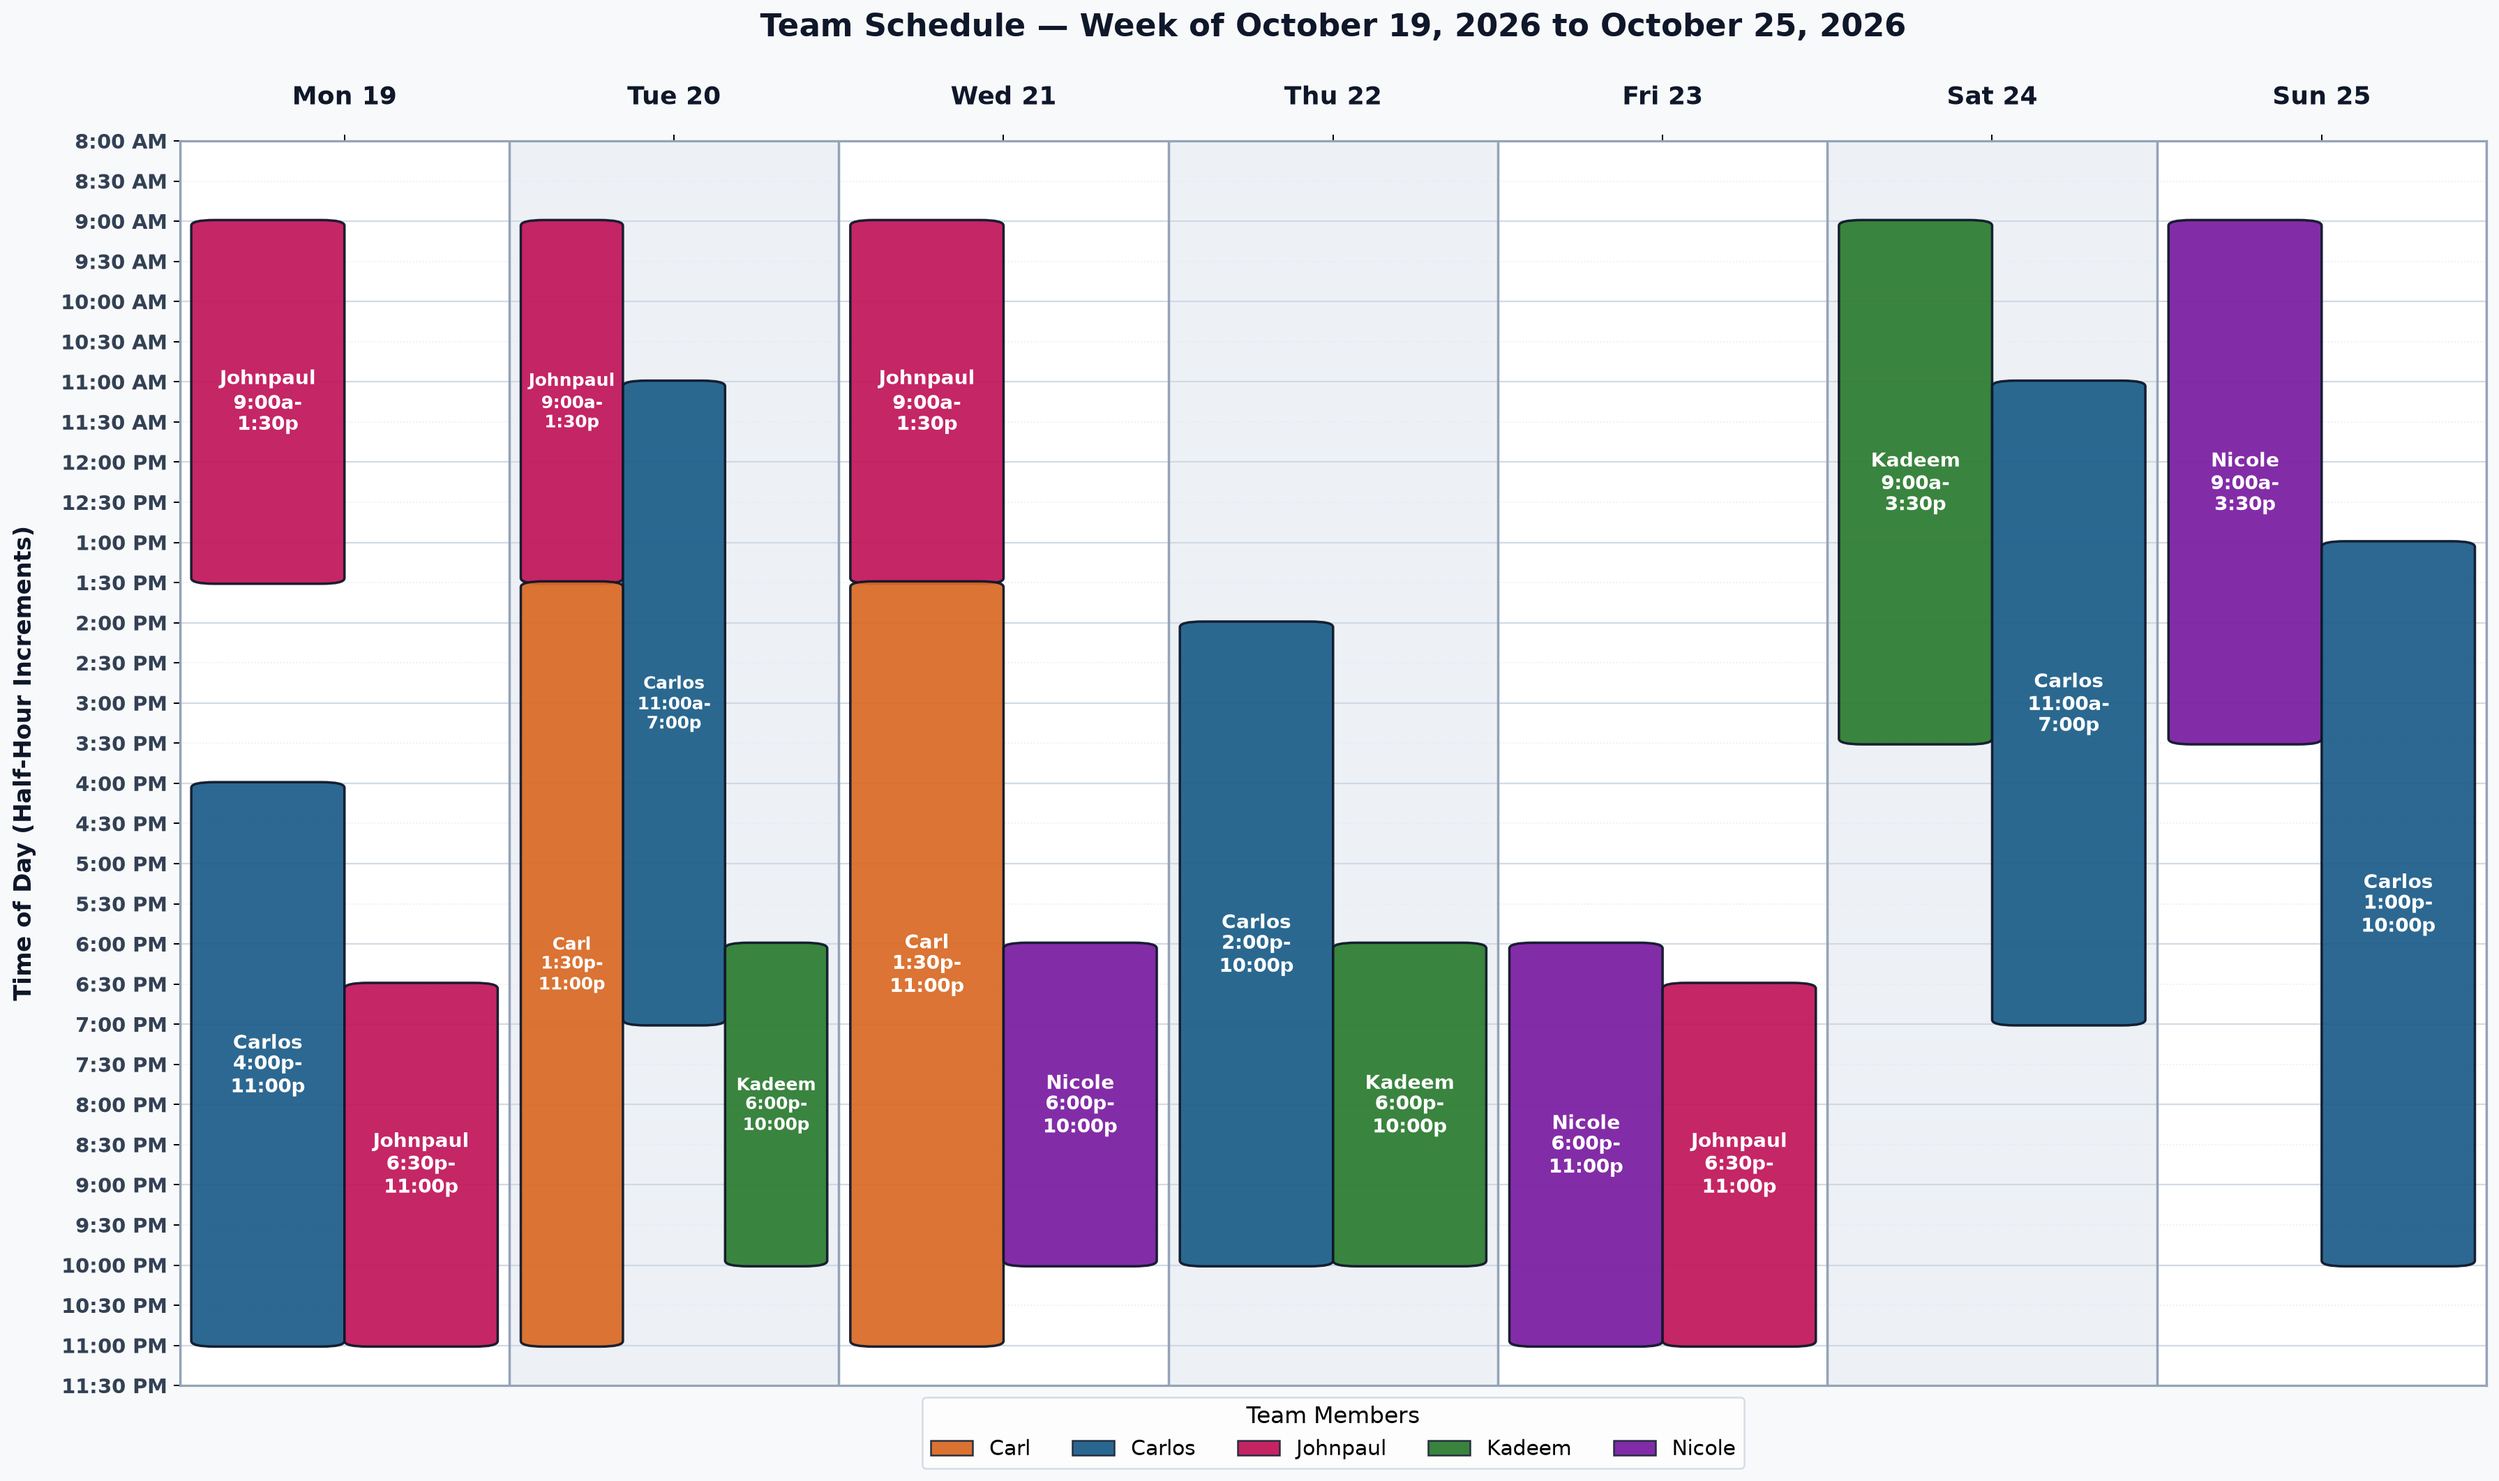
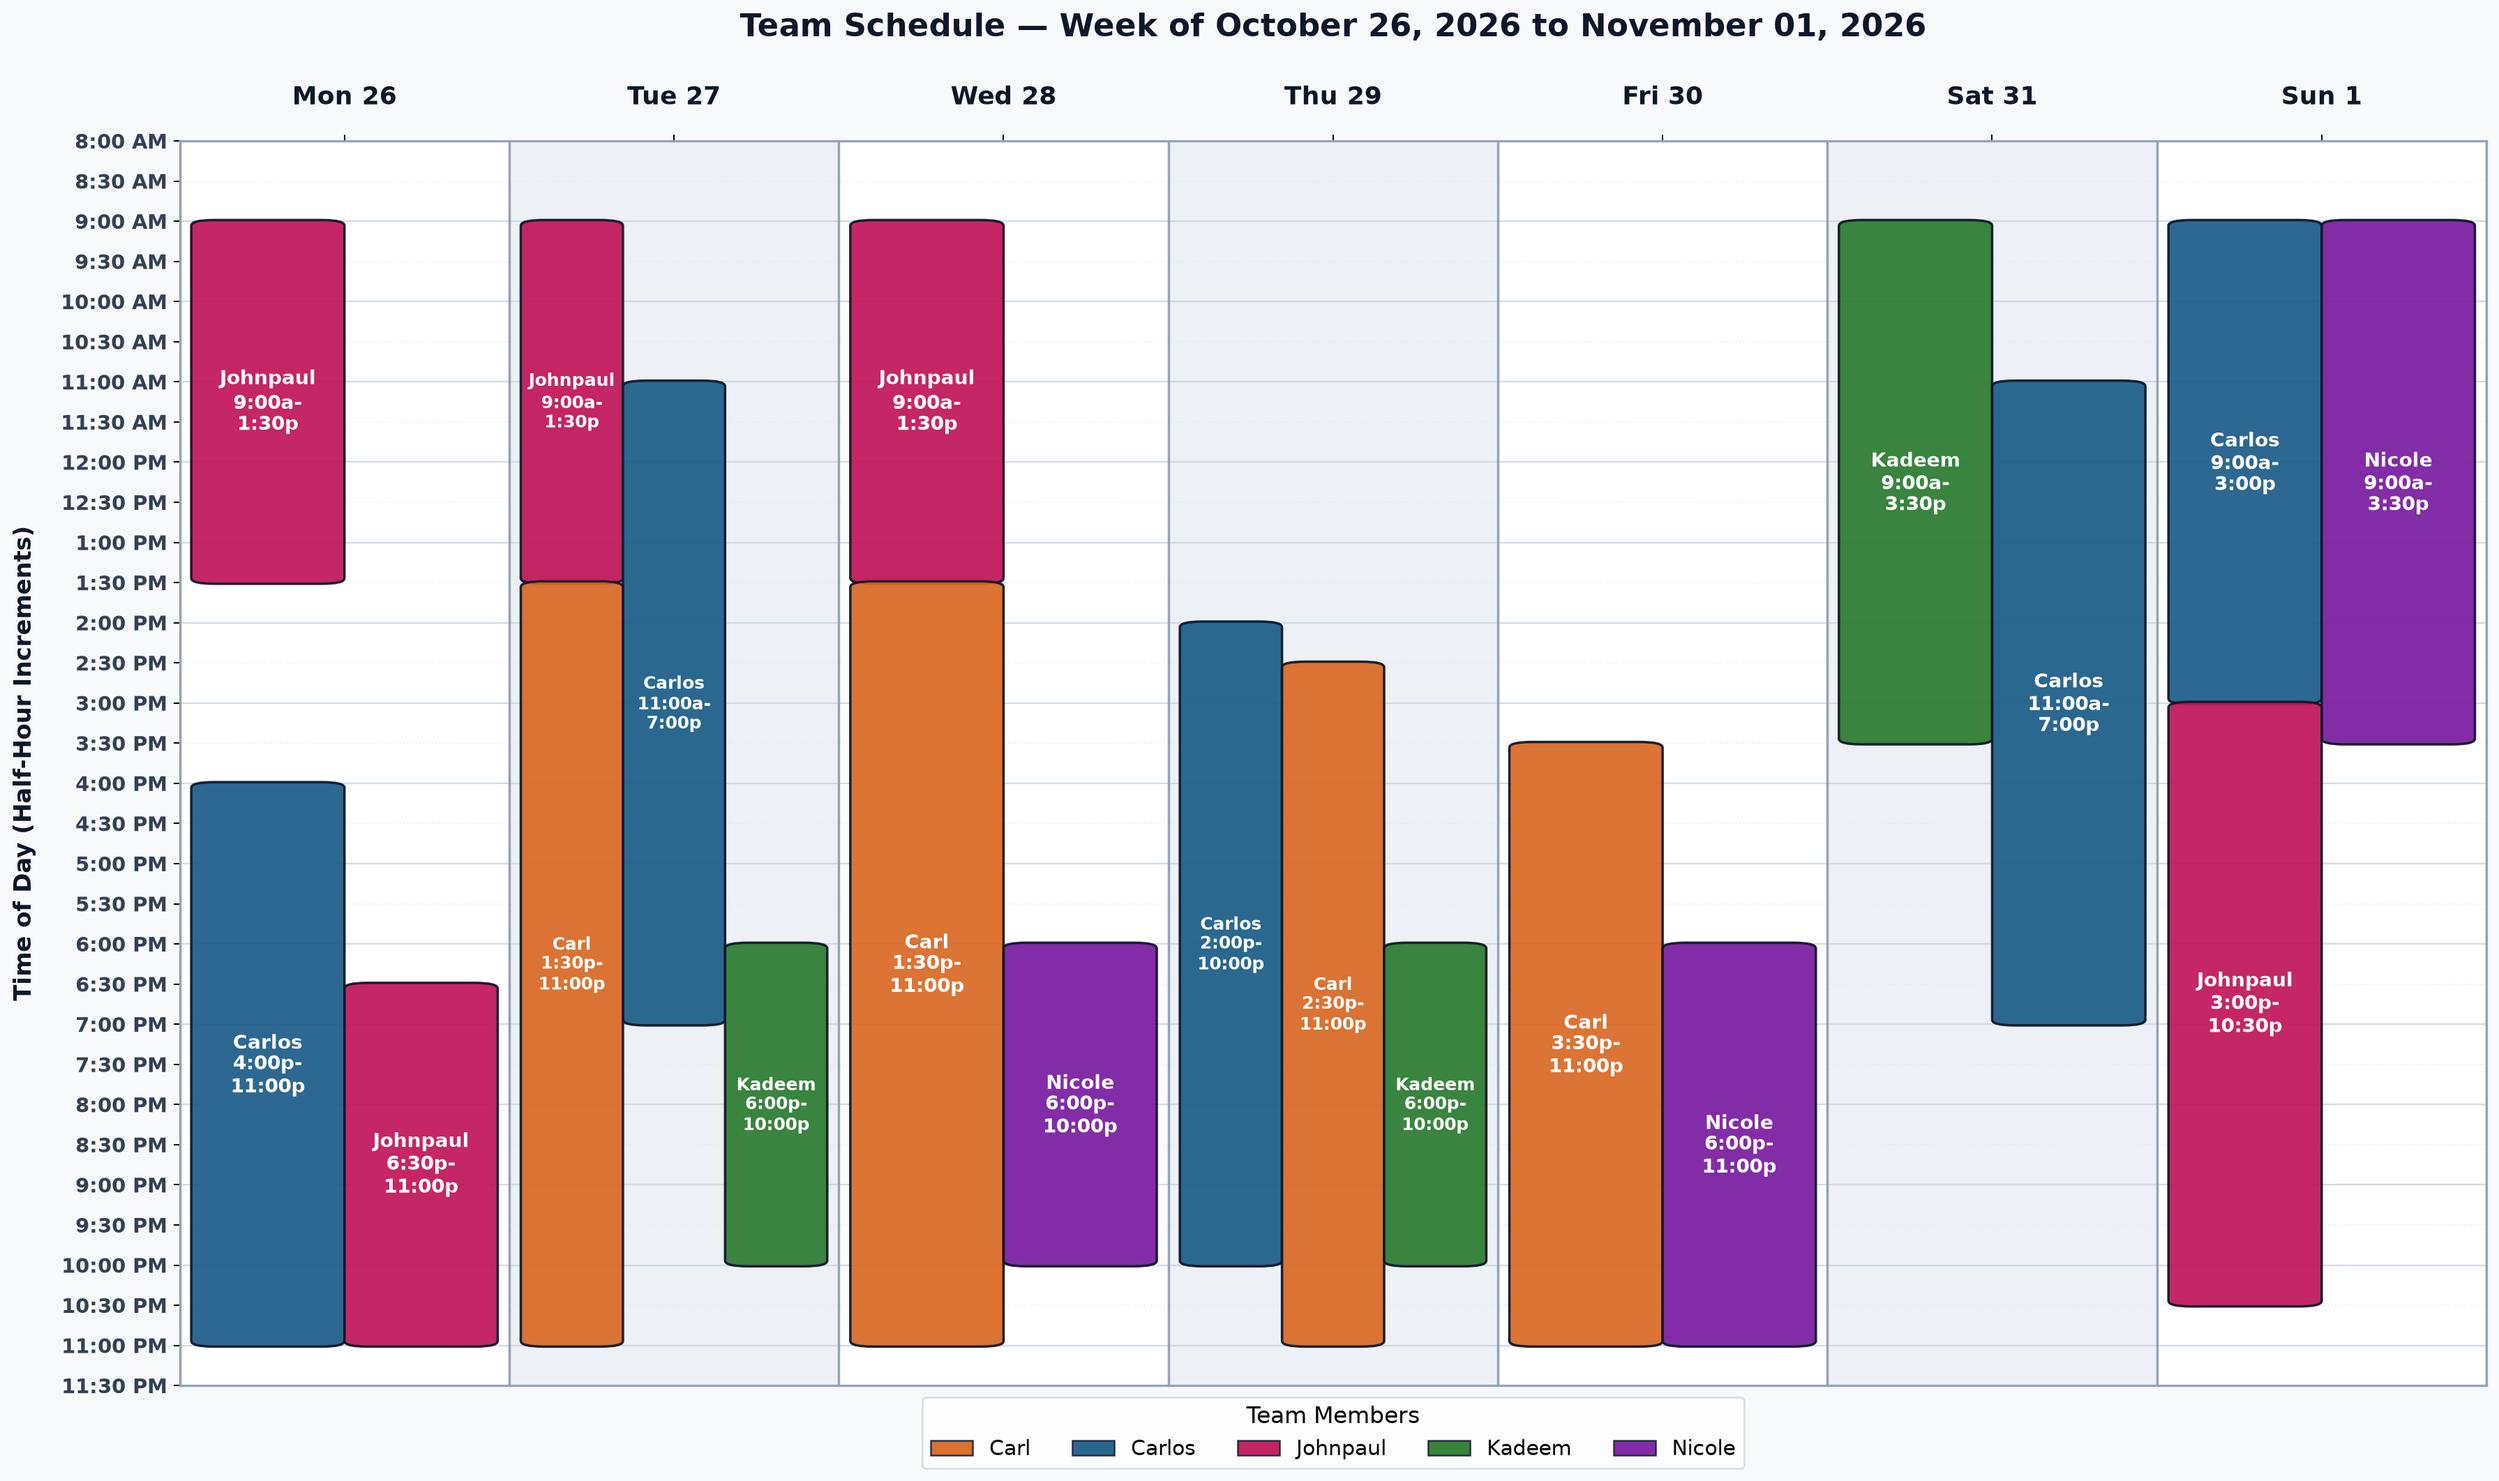
Update staff schedule for week of Oct 26 - Nov 1 (Carl adds Thu/Fri, Johnpaul removed from Fri)

Changed region(s): [[0.8677, 0.1244, 0.9916, 0.9016], [0.4648, 0.4041, 0.7437, 0.9326], [0.2789, 0.0, 0.7747, 0.0311]]

diff --git a/schedule.html b/schedule.html
@@ -763,8 +763,8 @@
         "Jordan": "#D97706",
         "Chris": "#059669"
       },
-      "total_hours": 119.0,
-      "total_shifts": 19,
+      "total_hours": 127.5,
+      "total_shifts": 20,
       "stats": {
         "Carlos": {
           "hours": 37.0,
@@ -772,8 +772,8 @@
           "color": "#1E5F8A"
         },
         "Carl": {
-          "hours": 19.0,
-          "shifts": 2,
+          "hours": 35.0,
+          "shifts": 4,
           "color": "#D96B27"
         },
         "Kadeem": {
@@ -787,8 +787,8 @@
           "color": "#7B1FA2"
         },
         "Johnpaul": {
-          "hours": 33.0,
-          "shifts": 6,
+          "hours": 25.5,
+          "shifts": 5,
           "color": "#C2185B"
         }
       },
@@ -841,6 +841,20 @@
           "start": 13.5,
           "end": 23.0,
           "label": "1:30 PM - 11:00 PM"
+        },
+        {
+          "name": "Carl",
+          "day": 3,
+          "start": 14.5,
+          "end": 23.0,
+          "label": "2:30 PM - 11:00 PM"
+        },
+        {
+          "name": "Carl",
+          "day": 4,
+          "start": 15.5,
+          "end": 23.0,
+          "label": "3:30 PM - 11:00 PM"
         },
         {
           "name": "Kadeem",
@@ -911,13 +925,6 @@
           "start": 9.0,
           "end": 13.5,
           "label": "9:00 AM - 1:30 PM"
-        },
-        {
-          "name": "Johnpaul",
-          "day": 4,
-          "start": 15.5,
-          "end": 23.0,
-          "label": "3:30 PM - 11:00 PM"
         },
         {
           "name": "Johnpaul",
